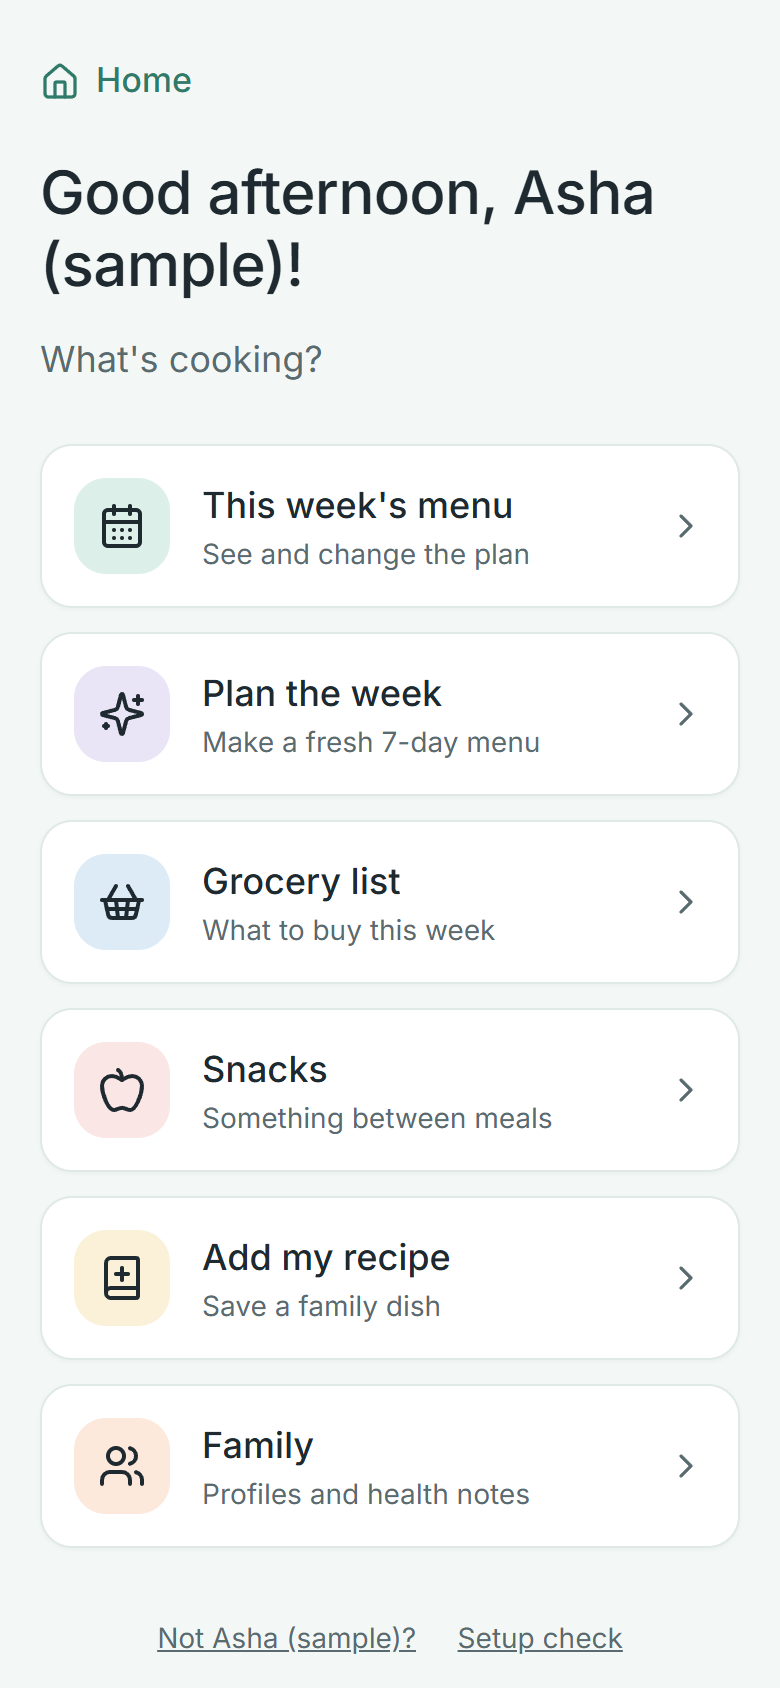
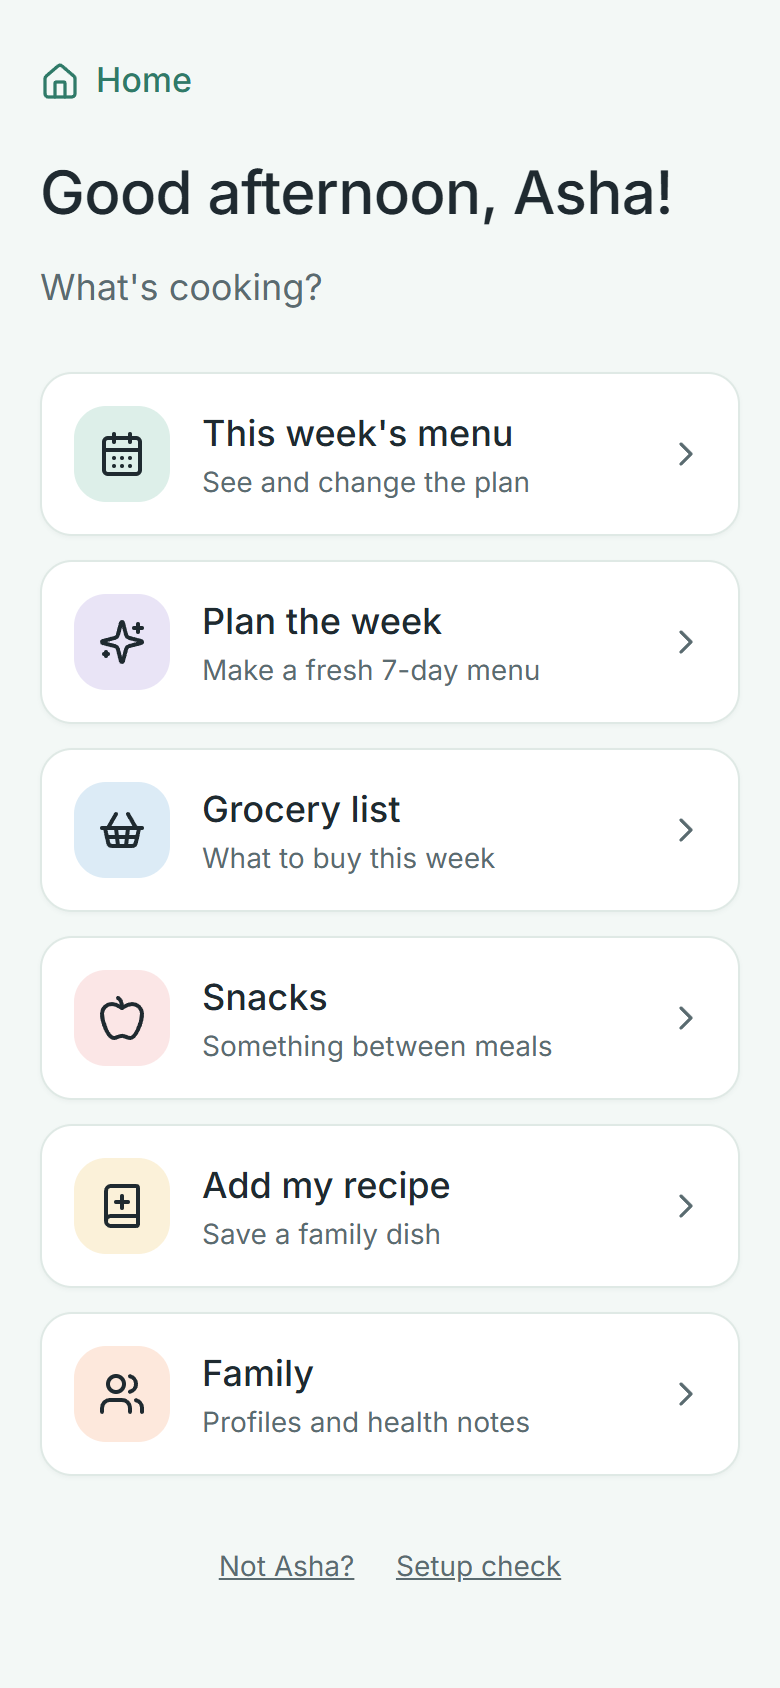
Remove (sample) from demo names

diff --git a/app/demo.py b/app/demo.py
@@ -16,16 +16,17 @@ from . import db
 
 # Invented people. Not real; chosen to show different diets and health rules.
 SAMPLE_MEMBERS = [
-    {"name": "Asha (sample)", "diet": "non-veg", "health_conditions": "High cholesterol",
+    {"name": "Asha", "diet": "non-veg", "health_conditions": "High cholesterol",
      "likes": "", "dislikes": "", "in_household": True},
-    {"name": "Ravi (sample)", "diet": "non-veg", "health_conditions": "Diabetes",
+    {"name": "Ravi", "diet": "non-veg", "health_conditions": "Diabetes",
      "likes": "", "dislikes": "", "in_household": True},
-    {"name": "Meera (sample)", "diet": "veg", "health_conditions": "Lactose intolerance",
+    {"name": "Meera", "diet": "veg", "health_conditions": "Lactose intolerance",
      "likes": "", "dislikes": "", "in_household": True},
-    {"name": "Grandpa Joe (sample)", "diet": "eggetarian", "health_conditions": "High blood pressure",
+    {"name": "Grandpa Joe", "diet": "eggetarian", "health_conditions": "High blood pressure",
      "likes": "", "dislikes": "", "in_household": False},
 ]
 
+SEED_VERSION = "2"  # bump to force a one-time re-seed of the sample households
 MAX_MEMBERS = 8
 MAX_USER_RECIPES = 15
 
@@ -101,7 +102,7 @@ def reset_if_new_day() -> None:
     Check, wipe and re-seed share one write transaction, so two worker
     processes crossing midnight together cannot both seed the households.
     """
-    today = date.today().isoformat()
+    today = date.today().isoformat() + "/" + SEED_VERSION
     conn = db.get_conn()
     try:
         _ensure_tables(conn)
@@ -114,7 +115,7 @@ def reset_if_new_day() -> None:
         conn.execute("DELETE FROM favorite")
         conn.execute("DELETE FROM family_member")
         conn.execute("DELETE FROM recipe WHERE source='user'")
-        conn.execute("DELETE FROM demo_usage WHERE day != ?", (today,))
+        conn.execute("DELETE FROM demo_usage WHERE day != ?", (date.today().isoformat(),))
         for m in SAMPLE_MEMBERS:
             conn.execute(
                 "INSERT INTO family_member (name, diet, health_conditions, likes, dislikes, in_household)"

diff --git a/README.md b/README.md
@@ -21,7 +21,7 @@ Planning a week of meals for a family is a daily chore, and harder when one pers
 
 **Live demo: https://family-meal-planner.azurewebsites.net**
 
-No sign-up or install needed. Open the link, pick one of the four sample people (invented, marked "sample"), and tap **Plan the week**. The first load can take about 30 seconds while the server wakes up.
+No sign-up or install needed. Open the link, pick one of the four sample people (all invented), and tap **Plan the week**. The first load can take about 30 seconds while the server wakes up.
 
 The demo is for visitors, so it works differently from the private family version: there is no PIN, your changes are wiped every night, and AI-built menus are limited each day (3 per visitor). After that, the app still builds menus with its own rule engine.
 
